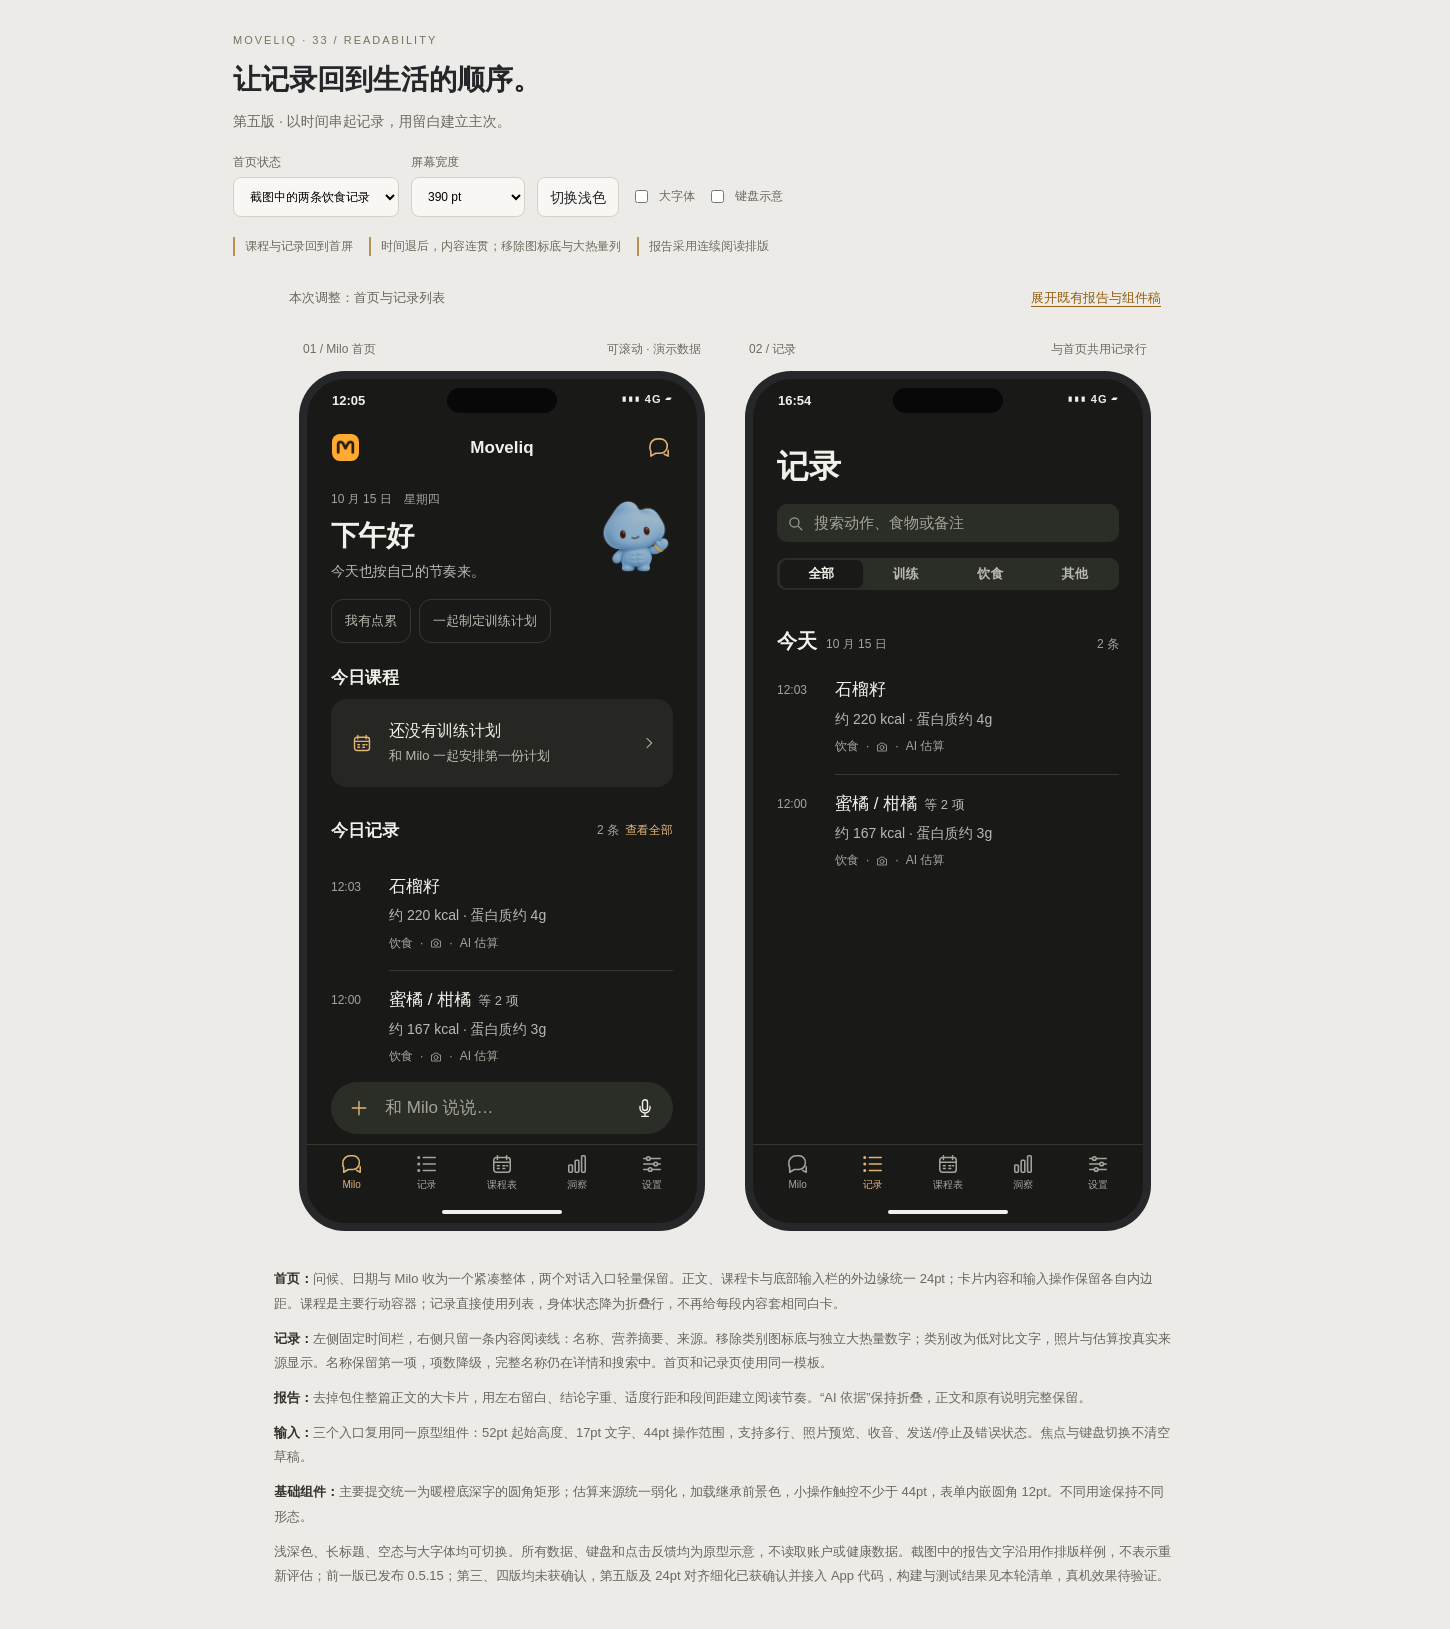
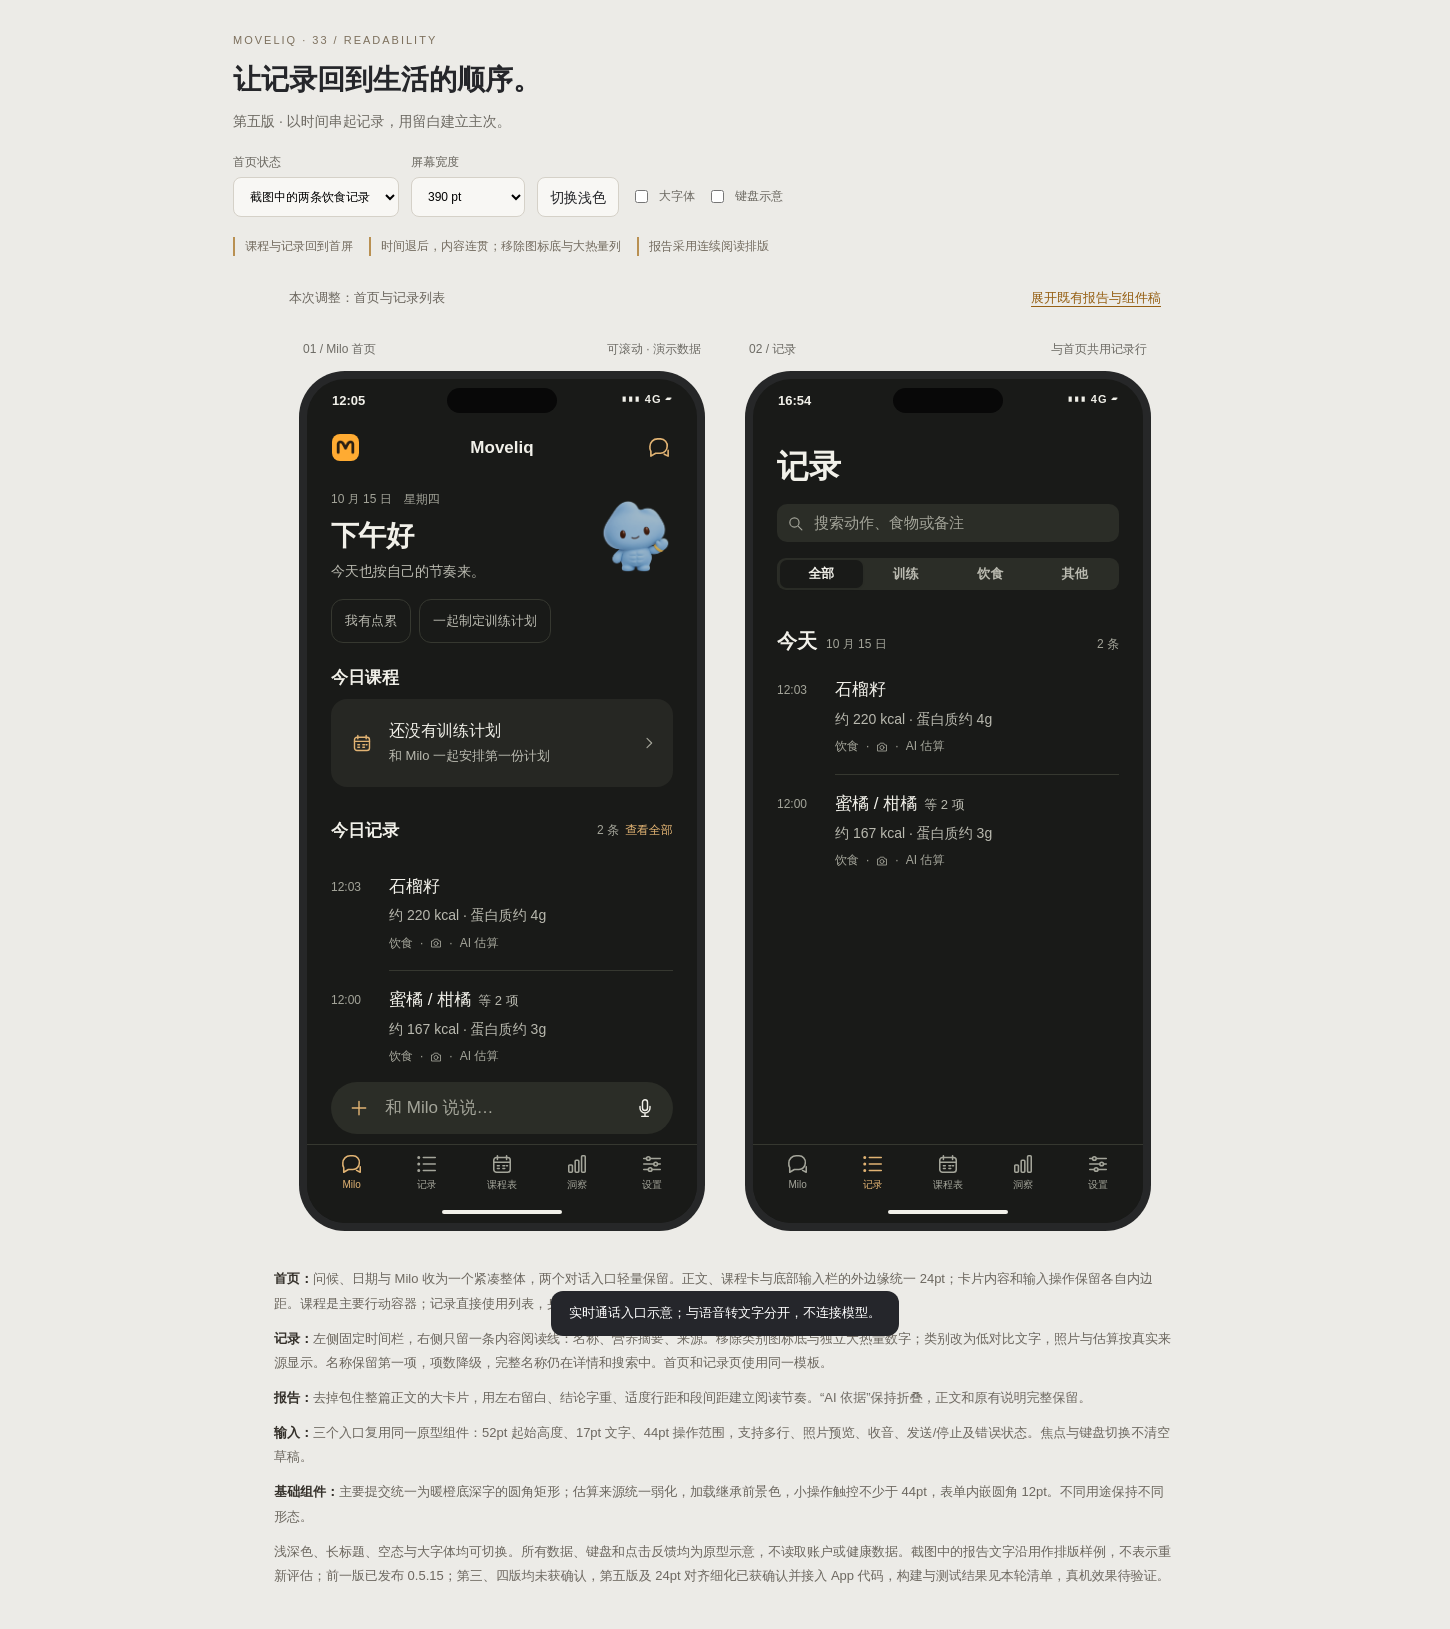
fix: 对齐消息输入栏图标与提示文字，准备 0.5.17 安装包

Changed region(s): [[0.3724, 0.7673, 0.6207, 0.8287]]

diff --git a/docs/33-home-report-readability/design.html b/docs/33-home-report-readability/design.html
@@ -41,7 +41,7 @@ header{max-width:1040px;margin:auto;padding:32px 28px 12px}.eyebrow{font-size:11
 
 /* Shared shape and behavior; the home composer follows its page content margins. */
 #homeComposer{--composer-inset:var(--content-inset)}
-.composer{position:relative}.composer-field{align-items:flex-end;padding:4px 6px;min-height:52px;border-radius:26px}.composer-field.has-lines{border-radius:20px}.composer textarea{border:0;background:none;font:400 calc(17px * var(--scale))/1.4 -apple-system,BlinkMacSystemFont,"Segoe UI","PingFang SC",sans-serif;resize:none;outline:none;color:var(--ink);width:100%;min-width:0;min-height:28px;max-height:calc(100px * var(--scale));padding:2px 0;margin:8px 0;overflow-y:auto;align-self:center;scrollbar-width:thin}.composer textarea::placeholder{color:var(--meta)}.composer .composer-right{display:flex;align-items:end;gap:0;flex-shrink:0}.phone .composer .composer-action{color:var(--ink);position:relative}.composer-action:before{content:"";position:absolute;inset:4px;border-radius:50%;background:transparent}.composer-action .icon{position:relative;width:20px;height:20px}.composer-action.send:before{background:var(--accent)}.phone .composer .composer-action.send{color:var(--on-accent)}.composer-action.recording:before{background:var(--bg)}.phone .composer .composer-action.recording{color:#ba4242}.composer-action.busy:before{background:var(--ink)}.phone .composer .composer-action.busy{color:var(--bg)}.composer button:disabled{opacity:.4;cursor:default}.phone .composer .secondary-voice{color:var(--meta)}
+.composer{position:relative}.composer-field{align-items:flex-end;padding:4px 6px;min-height:52px;border-radius:26px}.composer-field:not(.has-lines){align-items:center}.composer-field.has-lines{border-radius:20px}.composer textarea{border:0;background:none;font:400 calc(17px * var(--scale))/1.4 -apple-system,BlinkMacSystemFont,"Segoe UI","PingFang SC",sans-serif;resize:none;outline:none;color:var(--ink);width:100%;min-width:0;min-height:28px;max-height:calc(100px * var(--scale));padding:2px 0;margin:8px 0;overflow-y:auto;align-self:center;scrollbar-width:thin}.composer textarea::placeholder{color:var(--meta)}.composer .composer-right{display:flex;align-items:end;gap:0;flex-shrink:0}.phone .composer .composer-action{color:var(--ink);position:relative}.composer-action:before{content:"";position:absolute;inset:4px;border-radius:50%;background:transparent}.composer-action .icon{position:relative;width:20px;height:20px}.composer-action.send:before{background:var(--accent)}.phone .composer .composer-action.send{color:var(--on-accent)}.composer-action.recording:before{background:var(--bg)}.phone .composer .composer-action.recording{color:#ba4242}.composer-action.busy:before{background:var(--ink)}.phone .composer .composer-action.busy{color:var(--bg)}.composer button:disabled{opacity:.4;cursor:default}.phone .composer .secondary-voice{color:var(--meta)}
 .composer-notice{display:flex;gap:8px;align-items:center;justify-content:space-between;font-size:calc(12px * var(--scale));color:var(--sub);padding:0 4px 6px;min-height:28px}.composer-notice span{min-width:0}.composer-notice.error{color:#b33c3c}.dark .composer-notice.error{color:#f59797}.phone .composer-notice button{width:auto;min-width:44px;min-height:44px;font-size:12px;white-space:nowrap;color:var(--action)}.rec-dot{display:inline-block;width:6px;height:6px;border-radius:50%;background:#bc4444;margin-right:6px}.composer-attachment{display:flex;align-items:center;gap:10px;margin:0 4px 8px;min-width:0}.attachment-thumb{width:44px;height:44px;background:var(--chip);border-radius:12px;display:grid;place-items:center;color:var(--meta);flex-shrink:0}.attachment-copy{min-width:0;flex:1;font-size:calc(12px * var(--scale));color:var(--sub)}.attachment-copy small{display:block;color:var(--meta);font-size:calc(11px * var(--scale))}.phone .composer-attachment button{color:var(--meta)}.composer-dismiss{display:flex;justify-content:end}.phone .composer-dismiss button{width:auto;min-width:44px;min-height:44px;font-size:12px;color:var(--action)}.composer-menu{position:absolute;z-index:5;bottom:calc(100% - 4px);left:var(--composer-inset,16px);width:220px;max-width:calc(100% - 2 * var(--composer-inset,16px));border-radius:12px;background:var(--card);padding:6px;border:1px solid var(--line)}.phone .composer-menu button{width:100%;display:flex;justify-content:start;gap:10px;padding:8px 10px;color:var(--ink);font-size:14px;min-height:44px;height:auto;text-align:left}.spin{width:17px;height:17px;border:2px solid var(--meta);border-right-color:transparent;border-radius:50%;position:relative;animation:spin 1s linear infinite}@keyframes spin{to{transform:rotate(360deg)}}@media(prefers-reduced-motion:reduce){.spin{animation:none}}
 .composer-study{padding:12px 24px 36px;max-width:1350px;margin:auto}.study-heading{max-width:990px;margin:0 auto 18px}.study-heading h2{font-size:23px;font-weight:600}.study-heading>p{color:#6d6860;font-size:13px;margin-top:6px}.study-controls{display:flex;gap:12px;flex-wrap:wrap;margin-top:14px;align-items:center}.study-controls select{border:1px solid #d5d1c8;border-radius:8px;min-height:40px;padding:7px 12px;background:#f8f7f4}.study-controls label{color:#6d6860;font-size:12px}.composer-cases{display:flex;justify-content:center;gap:20px;flex-wrap:wrap}.composer-case{width:var(--phone-width,390px);max-width:100%}.composer-case>p{font-size:12px;color:#726c61;margin:0 4px 8px}.phone.composer-demo{height:auto;min-height:260px;border-radius:20px;border:1px solid #d5d3cd;overflow:visible;justify-content:end}.dark .phone.composer-demo{border-color:#414247}.demo-context{padding:18px 20px 12px;margin-bottom:auto}.demo-context strong{font-size:17px;font-weight:600}.demo-context p{font-size:12px;color:var(--sub);margin-top:6px}.composer-demo .composer{border-radius:0 0 20px 20px;padding-top:12px}.study-foot{font-size:12px;color:#746e63;max-width:990px;margin:16px auto 0;line-height:1.8}
 

diff --git a/AgenticKeepKeep/Core/Design/MessageComposer.swift b/AgenticKeepKeep/Core/Design/MessageComposer.swift
@@ -93,14 +93,16 @@ struct MessageComposer: View {
     }
 
     private var field: some View {
-        HStack(alignment: .bottom, spacing: 0) {
+        HStack(alignment: text.isEmpty ? .center : .bottom, spacing: 0) {
             accessoryButton
             TextField(placeholder, text: $text, axis: .vertical)
                 .font(Theme.Font.body)
                 .lineLimit(1...4)
                 .focused(focus)
                 .disabled(dictation.active)
-                .frame(minHeight: 44)
+                // 按实际行数决定高度，避免空白多行 TextField 被父容器拉高。
+                .fixedSize(horizontal: false, vertical: true)
+                .frame(minHeight: 44, alignment: .center)
                 .accessibilityLabel(placeholder)
                 .accessibilityIdentifier("\(identifier).draft")
 
@@ -156,6 +158,7 @@ struct MessageComposer: View {
                 .contentShape(Rectangle())
             }
             .buttonStyle(.plain)
+            .frame(width: 44, height: 44)
             .foregroundStyle(accessoryTint)
             .disabled(isBusy || dictation.active || photoItem != nil)
             .accessibilityLabel("添加照片")
@@ -172,6 +175,9 @@ struct MessageComposer: View {
                     .frame(width: 44, height: 44)
                     .contentShape(Rectangle())
             }
+            .buttonStyle(.plain)
+            .menuIndicator(.hidden)
+            .frame(width: 44, height: 44)
             .foregroundStyle(accessoryTint)
             .disabled(isBusy || dictation.active)
             .accessibilityLabel("更多操作")

diff --git a/docs/33-home-report-readability/checklist.md b/docs/33-home-report-readability/checklist.md
@@ -93,3 +93,19 @@
 - [x] 提交并 push 当前 R6 功能与文档：`92262e61688f7542d0f8ca78837916e1b1a3b094`；`v0.5.16` 已触发[本次构建 38715725040](https://github.com/MinJung-Go/Agentic-Moveliq/actions/runs/38715725040)。
 - [x] `92262e61688f7542d0f8ca78837916e1b1a3b094` 的[本次 CI](https://github.com/MinJung-Go/Agentic-Moveliq/actions/runs/38715725040)原生构建及完整 XCTest **504/504** 通过，Apple 音频专项另 **28/28**。新增真实长名称、完整食物名搜索/辅助朗读及非饮食搜索测试均通过；侧载权限嵌入校验通过。原生日志 `/tmp/moveliq-0.5.16-build-log/build.log`，音频日志 `/tmp/moveliq-0.5.16-audio.log`。
[1 lines of base64/hex data omitted]
+
+## R7 输入栏内部对齐修复
+
+- [x] 用户已确认是空白/单行时「＋」与“聊聊…”上下未居中；确认范围与当前修复一致。记录线索但不将其当作已经验证的真机根因。
+- [x] 同步当前 HTML 的单行居中约束，保留多行靠下和原有输入状态；更新现有两张总览，未新增永久稿件。
+- [x] 共享 MessageComposer：空文本显式 center、TextField 内容理想高度与最小 44pt 居中范围，照片/实时菜单统一外部 44pt，实时菜单 plain + 隐藏指示符；原有入口及回调保留。
+- [x] 原型三宽度 × 浅深色 × 常规/大字体 × 八状态 × 三入口，共 **288** 个预览通过：单行文字/图标垂直中心误差小于 1px，多行保持底对齐，按钮 44pt、无横向溢出；实时菜单可打开并触发演示动作。日志 `/tmp/moveliq-r7-composer-check.log`。修改后的 Swift 文件语法解析和 `git diff --check` 通过。本次均为 HTML/语法验证，不沿用 0.5.16 的原生测试结果。
+- [ ] 原生构建与全量回归，结果记录在下方 0.5.17（38）发布项。
+- [ ] 真机：单行、自动换行、4 行以上滚动、大字体、键盘、照片和实时菜单。
+
+## 0.5.17（38）IPA 发布
+
+- [x] 用户再次“打 IPA”授权提交/push 本次对齐修复并按既有 Actions 流程打包；当前分支不变，App 与 Widget 同步升级至 0.5.17（38）。
+- [ ] 提交、push 并以 v0.5.17 tag 触发构建，记录源码提交与 CI 链接。
+- [ ] 本次原生构建、全量 XCTest、音频专项及设备归档通过；不沿用上一版结果。
+- [ ] 实际下载核验 App/Widget 版本、服务地址、ZIP 完整性与 IPA SHA-256，回填下载链接。

diff --git a/docs/33-home-report-readability/requirements.md b/docs/33-home-report-readability/requirements.md
@@ -87,3 +87,13 @@
 - 记录页采用紧凑搜索与类别筛选；日期成为清晰的分组标题。保留搜索、筛选、详情与原生滑动删除的能力；所有操作范围不少于 44pt，不用无数据的统计或装饰内容填满空白。
 - 覆盖浅深色、320/390/430pt、常规/大字体、真实截图长名称、多项、未知营养、无照片/无估算、待归类和只读状态。默认聚焦首页与记录页，既有报告/输入栏/组件可展开；只保留现有两张预览。
 - 第五版与 24pt 对齐细化已获开发确认。本次实施首页、共享记录行、记录页、展示名称与完整名称搜索；保持既有报告、聊天/记录输入行为和后端不变。2026-10-15 用户后续“打 IPA”授权按既有 Actions 流程提交/push 并构建 0.5.16（37）；HTML 与 Linux 结果不代替原生验收。
+
+## R7 输入栏内部对齐修复（2026-10-15）
+
+用户反馈「＋号和聊聊那些字没对齐」。本项修复已确认消息输入栏的内部对齐，不重新设计外观或改变入口。
+
+- 用户已确认：空白或单行时，「＋」与“聊聊…”上下没居中，本项按这一状态验收。修复前的代码为整个输入行底对齐，多行 TextField 仅设最小高度，聊天菜单未显式指定 plain 样式；尚无本次真机几何数据，不将这些线索表述为已经证实的唯一根因。
+- 空文本时，＋、占位提示与右侧麦克风使用同一垂直中心；文本框优先采用内容理想高度，单行最小 44pt，避免被父容器拉高。已有内容和多行仍采用原先靠下排列，1–4 行增长和内部滚动能力保留。
+- 照片与实时菜单的＋使用同一 44pt 外部范围，实时菜单显式 plain 并隐藏额外指示符，避免系统样式额外参与排布；不使用负偏移或为每页各写一套补丁。
+- 首页、Milo/课程教练、记一笔使用同一组件修复；保留首页 24pt/其他入口 16pt 外边距、照片、实时通话、语音转写、发送与忙碌状态。
+- 本项属于恢复已确认的输入栏对齐要求，先同步当前稿的空白/单行约束再修共享组件。原型几何检查与原生验证分开记录；用户后续“打 IPA”已授权本次提交/push 与 0.5.17（38）构建，结果见 checklist.md。

diff --git a/docs/README.md b/docs/README.md
@@ -124,6 +124,6 @@ Moveliq 品牌统一、Milo 默认首页与统一记录／聊天入口。
 
 App 默认连接 https://moveliq.work/api，移除 HTTP 放行；服务端独立部署。[需求](31-domain-https/requirements.md) · [清单](31-domain-https/checklist.md)。
 
-## 第 33 轮 · 首页与分析报告可读性（0.5.16 已打包）
+## 第 33 轮 · 首页与分析报告可读性（0.5.16 已打包，0.5.17 对齐修复打包中）
 
 改善首页模块层次、记录照片/AI 标签对齐及分析报告长正文排版，统一消息输入栏和基础组件。设计已确认并接入 App；0.5.15 的 iOS CI 构建与 501 项单测通过。已收到记录行真机反馈，第三、四版未获确认；第五版及 24pt 对齐细化已确认并接入 App：时间栏与连续内容栏、暖色页面和完整名称搜索；本次本地逻辑 17/17、193 个 Swift 文件语法解析通过，0.5.16（37）原生构建与 504 项 XCTest 已通过，[IPA 已产出并核验](https://github.com/MinJung-Go/Agentic-Moveliq/actions/runs/38715725040/artifacts/11964063963)，真机效果待验证。[需求](33-home-report-readability/requirements.md) · [清单](33-home-report-readability/checklist.md) · [设计稿](33-home-report-readability/design.html)。
